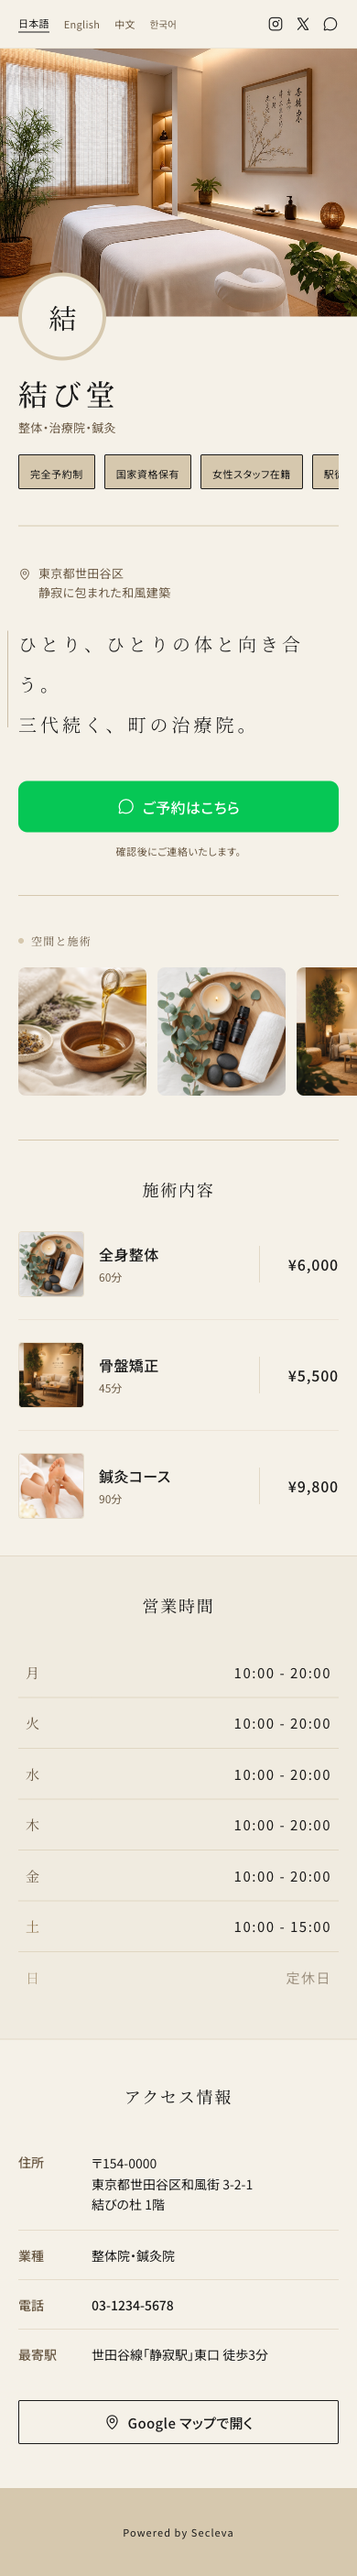
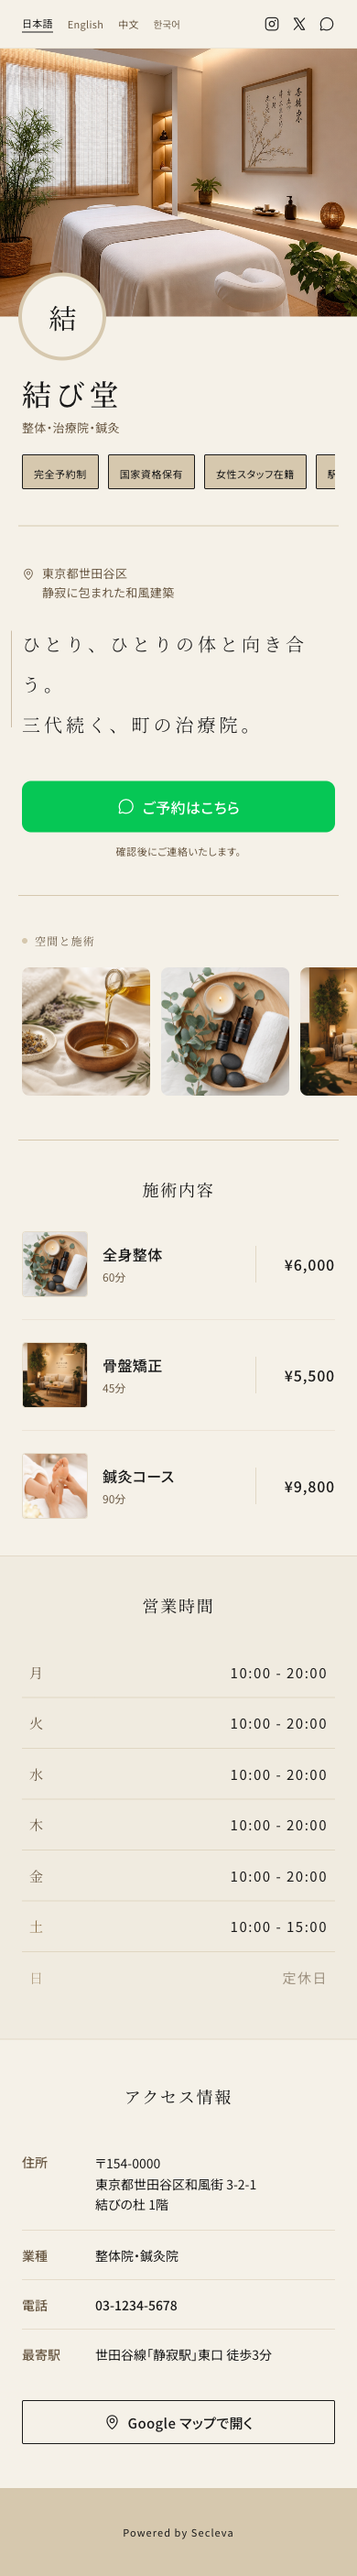
fix: T1ギャラリー左端bleed解消 / T1・T2・T3・T5に+4pxパディング横展開
- T1: ギャラリー&特徴タグの -mx-5 px-5 を px-6 化（左端=右端マージン）
- T1: 全主要セクション px-5 → px-6
- T2: 全主要セクション px-5 → px-6
- T3: 全主要セクション px-6 → px-7
- T5: 全主要セクション px-5 → px-6
- 全テンプレでT4と同じ詰まり感解消

diff --git a/shop-page/templates/T1_clean.html b/shop-page/templates/T1_clean.html
@@ -79,10 +79,10 @@
         </section>
 
         <!-- 3. Shop Info Header -->
-        <section class="px-5 pt-16 pb-6 bg-secbg relative z-0">
+        <section class="px-6 pt-16 pb-6 bg-secbg relative z-0">
             <h1 class="text-[28px] font-bold leading-tight tracking-tight text-sectext">上野リラクゼーション</h1>
             <p class="text-sm font-medium text-secmuted mt-1">マッサージ・リラクゼーション</p>
-            <div class="flex overflow-x-auto no-scrollbar gap-2 mt-4 -mx-5 px-5 pb-1">
+            <div class="flex overflow-x-auto no-scrollbar gap-2 mt-4 px-6 pb-1">
                 <span class="whitespace-nowrap px-3 py-1.5 bg-[#F9FAFB] text-sectext text-xs font-medium rounded-full border border-secborder">女性専用</span>
                 <span class="whitespace-nowrap px-3 py-1.5 bg-[#F9FAFB] text-sectext text-xs font-medium rounded-full border border-secborder">個室完備</span>
                 <span class="whitespace-nowrap px-3 py-1.5 bg-[#F9FAFB] text-sectext text-xs font-medium rounded-full border border-secborder">駅近</span>
@@ -92,7 +92,7 @@
         </section>
 
         <!-- 4. Location & Catchcopy -->
-        <section class="px-5 pb-8 bg-secbg">
+        <section class="px-6 pb-8 bg-secbg">
             <div class="flex items-center gap-1.5 text-secmuted text-sm">
                 <i class="ph ph-map-pin text-[18px]"></i>
                 <span>東京都台東区上野</span>
@@ -103,15 +103,15 @@
         </section>
 
         <!-- 5. Primary CTA -->
-        <section class="px-5 pb-10 bg-secbg">
+        <section class="px-6 pb-10 bg-secbg">
             <button class="w-full h-[56px] bg-secgreen text-white rounded-[14px] flex items-center justify-center font-bold text-[17px]">フォームで予約する</button>
             <p class="text-xs text-secmuted text-center mt-3 font-medium">店舗側で確認後にご連絡いたします。</p>
         </section>
 
         <!-- 6. Gallery -->
         <section class="py-6 border-t border-secborder bg-secbg">
-            <div class="px-5 mb-4 font-bold text-lg text-sectext">ギャラリー</div>
-            <div class="flex overflow-x-auto no-scrollbar gap-3 -mx-5 px-5 pb-2 snap-x snap-mandatory">
+            <div class="px-6 mb-4 font-bold text-lg text-sectext">ギャラリー</div>
+            <div class="flex overflow-x-auto no-scrollbar gap-3 px-6 pb-2 snap-x snap-mandatory">
                 <img src="../../branding/dummy/salon/03_tray.webp" alt="" class="w-[140px] h-[140px] shrink-0 rounded-xl object-cover border border-secborder snap-start">
                 <img src="../../branding/dummy/salon/04_lounge.webp" alt="" class="w-[140px] h-[140px] shrink-0 rounded-xl object-cover border border-secborder snap-start">
                 <img src="../../branding/dummy/salon/01_hero.webp" alt="" class="w-[140px] h-[140px] shrink-0 rounded-xl object-cover border border-secborder snap-start">
@@ -122,7 +122,7 @@
         </section>
 
         <!-- 7. Menu -->
-        <section class="px-5 py-8 border-t border-secborder bg-secbg">
+        <section class="px-6 py-8 border-t border-secborder bg-secbg">
             <h2 class="font-bold text-lg text-sectext mb-4">メニュー</h2>
             <div class="border border-secborder rounded-2xl bg-white overflow-hidden flex flex-col">
                 <div class="flex gap-3 p-4 border-b border-secborder">
@@ -159,7 +159,7 @@
         </section>
 
         <!-- 8. Business Hours -->
-        <section class="px-5 py-8 border-t border-secborder bg-secbg">
+        <section class="px-6 py-8 border-t border-secborder bg-secbg">
             <h2 class="font-bold text-lg text-sectext mb-4">営業時間</h2>
             <div class="border border-secborder rounded-2xl bg-white overflow-hidden text-sm">
                 <div class="flex justify-between items-center py-3.5 px-4 border-b border-secborder"><span class="font-medium text-sectext w-8">月</span><span class="text-sectext tracking-wide">10:00 - 21:00</span></div>
@@ -173,7 +173,7 @@
         </section>
 
         <!-- 9. Access & Shop Info -->
-        <section class="px-5 py-8 border-t border-secborder bg-secbg">
+        <section class="px-6 py-8 border-t border-secborder bg-secbg">
             <h2 class="font-bold text-lg text-sectext mb-4">アクセス・店舗情報</h2>
             <div class="space-y-4 text-[15px] text-sectext font-medium">
                 <div class="flex gap-4"><span class="text-secmuted w-12 shrink-0">住所</span><p class="leading-relaxed">〒110-0005<br>東京都台東区上野</p></div>

diff --git a/shop-page/templates/T5_night.html b/shop-page/templates/T5_night.html
@@ -43,7 +43,7 @@
         <div class="absolute top-0 left-1/2 -translate-x-1/2 w-[150%] h-[500px] bg-[radial-gradient(ellipse_at_top,rgba(232,180,160,0.15)_0%,transparent_60%)] pointer-events-none z-0"></div>
 
         <!-- 1. Top Utility Bar -->
-        <header class="relative z-20 w-full px-5 py-3 flex justify-between items-center bg-obsidian/80 backdrop-blur-md border-b divider sticky top-0">
+        <header class="relative z-20 w-full px-6 py-3 flex justify-between items-center bg-obsidian/80 backdrop-blur-md border-b divider sticky top-0">
             <div class="flex gap-2 text-[11px] font-medium tracking-widest text-pinkgold/60">
                 <button class="text-pinkgold underline underline-offset-4 decoration-[1px]">JP</button>
                 <span>/</span>
@@ -75,7 +75,7 @@
         <div class="h-14 w-full"></div>
 
         <!-- 3. Title & Chips -->
-        <section class="px-5 w-full z-10 relative">
+        <section class="px-6 w-full z-10 relative">
             <div class="flex flex-col gap-1">
                 <p class="text-pinkgold text-xs tracking-[0.2em] font-medium opacity-90 uppercase">Ginza Snack & Lounge</p>
                 <h1 class="text-3xl sm:text-[36px] font-black tracking-tight text-white neon-text mt-1">Lounge ROUGE</h1>
@@ -91,7 +91,7 @@
         </section>
 
         <!-- 4. Address & Catchcopy -->
-        <section class="px-5 mt-10 w-full">
+        <section class="px-6 mt-10 w-full">
             <p class="text-txtsecondary text-sm flex items-center gap-2 mb-4">
                 <i class="ph ph-map-pin text-pinkgold text-base"></i>
                 東京都中央区銀座8-x-x ローズビル3F
@@ -102,7 +102,7 @@
         </section>
 
         <!-- 5. CTAs -->
-        <section class="px-5 mt-10 w-full flex flex-col gap-3">
+        <section class="px-6 mt-10 w-full flex flex-col gap-3">
             <button class="w-full h-14 bg-pinkgold text-obsidian font-bold text-[15px] rounded-lg tracking-wider flex items-center justify-center gap-2 shadow-[0_4px_24px_rgba(232,180,160,0.35)]">
                 <i class="ph ph-chat-circle text-2xl"></i>
                 LINEで予約する
@@ -113,10 +113,10 @@
             </button>
         </section>
 
-        <div class="w-full px-5 mt-14 mb-10"><div class="w-full border-t divider"></div></div>
+        <div class="w-full px-6 mt-14 mb-10"><div class="w-full border-t divider"></div></div>
 
         <!-- 6. Gallery -->
-        <section class="px-5 w-full">
+        <section class="px-6 w-full">
             <h3 class="text-sm font-bold tracking-[0.15em] text-pinkgold mb-6 uppercase flex items-center gap-2">
                 <i class="ph ph-images"></i> Gallery
             </h3>
@@ -130,10 +130,10 @@
             </div>
         </section>
 
-        <div class="w-full px-5 mt-14 mb-10"><div class="w-full border-t divider"></div></div>
+        <div class="w-full px-6 mt-14 mb-10"><div class="w-full border-t divider"></div></div>
 
         <!-- 7. Menu -->
-        <section class="px-5 w-full">
+        <section class="px-6 w-full">
             <h3 class="text-sm font-bold tracking-[0.15em] text-pinkgold mb-6 uppercase flex items-center gap-2">
                 <i class="ph ph-wine"></i> System & Menu
             </h3>
@@ -169,10 +169,10 @@
             <p class="text-xs text-txtsecondary mt-4 pr-2 text-right">その他のメニュー・ボトルも多数ご用意しております。</p>
         </section>
 
-        <div class="w-full px-5 mt-14 mb-10"><div class="w-full border-t divider"></div></div>
+        <div class="w-full px-6 mt-14 mb-10"><div class="w-full border-t divider"></div></div>
 
         <!-- 8. Business Hours -->
-        <section class="px-5 w-full">
+        <section class="px-6 w-full">
             <h3 class="text-sm font-bold tracking-[0.15em] text-pinkgold mb-6 uppercase flex items-center gap-2">
                 <i class="ph ph-clock"></i> Hours
             </h3>
@@ -192,10 +192,10 @@
             </div>
         </section>
 
-        <div class="w-full px-5 mt-14 mb-10"><div class="w-full border-t divider"></div></div>
+        <div class="w-full px-6 mt-14 mb-10"><div class="w-full border-t divider"></div></div>
 
         <!-- 9. Access Block -->
-        <section class="px-5 w-full">
+        <section class="px-6 w-full">
             <h3 class="text-sm font-bold tracking-[0.15em] text-pinkgold mb-6 uppercase flex items-center gap-2">
                 <i class="ph ph-map-trifold"></i> Access
             </h3>

diff --git a/shop-page/templates/T2_wamodern.html b/shop-page/templates/T2_wamodern.html
@@ -42,7 +42,7 @@
     <div class="app-container shadow-[0_0_40px_-15px_rgba(0,0,0,0.05)] md:border-x md:border-paper/40">
 
         <!-- 1. Top Utility Bar -->
-        <nav class="flex items-center justify-between px-5 py-3 border-b border-paper/30">
+        <nav class="flex items-center justify-between px-6 py-3 border-b border-paper/30">
             <div class="flex items-center gap-4 text-[11px] font-sans text-textsec tracking-wide">
                 <span class="text-sumi border-b border-sumi pb-[1px]">日本語</span>
                 <span>English</span>
@@ -65,7 +65,7 @@
         </header>
 
         <!-- 3. Header Info -->
-        <section class="px-5 pt-16 pb-8">
+        <section class="px-6 pt-16 pb-8">
             <h1 class="font-serif text-[32px] font-medium text-sumi tracking-jp-wide leading-[1.2]">結び堂</h1>
             <p class="text-[13px] text-textsec mt-2 tracking-wide font-sans">整体・治療院・鍼灸</p>
             <div class="flex overflow-x-auto gap-2.5 mt-5 pb-2">
@@ -80,7 +80,7 @@
         <div class="w-[calc(100%-2.5rem)] h-px bg-paper mx-auto"></div>
 
         <!-- 4. Intro / Catchcopy -->
-        <section class="px-5 py-10">
+        <section class="px-6 py-10">
             <div class="flex items-start gap-2 mb-6 text-textsec">
                 <i class="ph ph-map-pin text-sm mt-[2px]"></i>
                 <p class="text-[13px] tracking-wide leading-relaxed font-sans">東京都世田谷区<br>静寂に包まれた和風建築</p>
@@ -93,7 +93,7 @@
         </section>
 
         <!-- 5. Primary CTA -->
-        <section class="px-5 pb-10">
+        <section class="px-6 pb-10">
             <button class="btn-press w-full h-[56px] bg-line text-white rounded-[10px] flex items-center justify-center gap-2">
                 <i class="ph ph-chat-circle text-xl"></i>
                 <span class="font-sans font-medium text-[16px] tracking-wide mt-[1px]">ご予約はこちら</span>
@@ -105,10 +105,10 @@
 
         <!-- 6. Gallery -->
         <section class="py-10">
-            <h3 class="px-5 font-serif text-[12px] tracking-widest text-textsec mb-5 uppercase flex items-center gap-2">
+            <h3 class="px-6 font-serif text-[12px] tracking-widest text-textsec mb-5 uppercase flex items-center gap-2">
                 <span class="w-1.5 h-1.5 bg-paper rounded-full"></span> 空間と施術
             </h3>
-            <div class="flex overflow-x-auto gap-3 px-5 pb-2">
+            <div class="flex overflow-x-auto gap-3 px-6 pb-2">
                 <img src="../../branding/dummy/salon/02_oilbowl.webp" alt="" class="w-[140px] h-[140px] rounded-[8px] object-cover flex-shrink-0">
                 <img src="../../branding/dummy/salon/03_tray.webp" alt="" class="w-[140px] h-[140px] rounded-[8px] object-cover flex-shrink-0">
                 <img src="../../branding/dummy/salon/04_lounge.webp" alt="" class="w-[140px] h-[140px] rounded-[8px] object-cover flex-shrink-0">
@@ -121,7 +121,7 @@
         <div class="w-[calc(100%-2.5rem)] h-[1px] bg-paper mx-auto"></div>
 
         <!-- 7. Menu -->
-        <section class="py-10 px-5">
+        <section class="py-10 px-6">
             <h3 class="font-serif text-[18px] text-sumi mb-8 tracking-widest text-center">施術内容</h3>
             <div class="flex flex-col gap-6">
                 <div class="flex items-center gap-4 relative">
@@ -155,7 +155,7 @@
         </section>
 
         <!-- 8. Business Hours -->
-        <section class="py-10 px-5 bg-[#F0EBE0] border-y border-paper/50">
+        <section class="py-10 px-6 bg-[#F0EBE0] border-y border-paper/50">
             <h3 class="font-serif text-[18px] text-sumi mb-8 tracking-widest text-center">営業時間</h3>
             <table class="w-full text-[15px]">
                 <tbody>
@@ -171,7 +171,7 @@
         </section>
 
         <!-- 9. Access Block -->
-        <section class="py-12 px-5">
+        <section class="py-12 px-6">
             <h3 class="font-serif text-[18px] text-sumi mb-8 tracking-widest text-center">アクセス情報</h3>
             <dl class="flex flex-col text-[14px]">
                 <div class="flex py-4 border-b border-paper/50"><dt class="w-[80px] font-sans text-textsec font-medium">住所</dt><dd class="flex-1 font-sans text-sumi leading-relaxed">〒154-0000<br>東京都世田谷区和風街 3-2-1<br>結びの杜 1階</dd></div>

diff --git a/shop-page/templates/T3_natural.html b/shop-page/templates/T3_natural.html
@@ -67,7 +67,7 @@
         </section>
 
         <!-- 3. Shop Name & Chips -->
-        <section class="pt-10 px-6 pb-8 relative z-10">
+        <section class="pt-10 px-7 pb-8 relative z-10">
             <p class="text-sm text-custom-textmuted mb-1 tracking-wider">アロマ・ハーブ・オーガニックサロン</p>
             <h1 class="text-[28px] md:text-[32px] font-bold tracking-tight text-custom-text leading-tight w-full">アロマスタジオ HANARE</h1>
             <p class="font-lora font-medium text-custom-textmuted text-base uppercase tracking-widest mt-0.5">Aroma Studio Hanare</p>
@@ -80,10 +80,10 @@
             </div>
         </section>
 
-        <div class="px-6"><div class="w-full h-[1px] bg-custom-divider"></div></div>
+        <div class="px-7"><div class="w-full h-[1px] bg-custom-divider"></div></div>
 
         <!-- 4. Address & Catchcopy -->
-        <section class="py-8 px-6 space-y-6">
+        <section class="py-8 px-7 space-y-6">
             <div class="w-full flex justify-center text-custom-sub">
                 <svg width="24" height="24" viewBox="0 0 24 24" fill="none" stroke="currentColor" stroke-width="1.5" class="opacity-60">
                     <path d="M12 22C12 22 12 12 12 8C12 4 16 3 16 3C16 3 20 5 20 8C20 12 12 14 12 14Z" stroke-linejoin="round"/>
@@ -100,7 +100,7 @@
         </section>
 
         <!-- 5. Primary CTAs -->
-        <section class="px-6 pb-12 flex flex-col gap-3">
+        <section class="px-7 pb-12 flex flex-col gap-3">
             <button class="w-full h-14 bg-custom-line text-white rounded-full flex items-center justify-center gap-2 text-lg font-bold shadow-[0_4px_14px_rgba(6,199,85,0.25)]">
                 <i class="ph ph-chat-circle-text text-2xl"></i>
                 LINEで予約する
@@ -113,11 +113,11 @@
 
         <!-- 6. Gallery -->
         <section class="py-8 bg-white/40 border-y border-custom-divider relative">
-            <div class="px-6 mb-4 flex items-end gap-2">
+            <div class="px-7 mb-4 flex items-end gap-2">
                 <h3 class="font-lora text-2xl text-custom-text font-semibold tracking-tight">Gallery</h3>
                 <span class="text-sm text-custom-textmuted mb-1">店内ギャラリー</span>
             </div>
-            <div class="flex gap-4 px-6 overflow-x-auto hide-scrollbar w-full">
+            <div class="flex gap-4 px-7 overflow-x-auto hide-scrollbar w-full">
                 <img src="../../branding/dummy/salon/03_tray.webp" alt="" class="w-[140px] h-[140px] rounded-[16px] object-cover flex-shrink-0 warm-photo border border-custom-divider/50">
                 <img src="../../branding/dummy/salon/04_lounge.webp" alt="" class="w-[140px] h-[140px] rounded-[16px] object-cover flex-shrink-0 warm-photo border border-custom-divider/50">
                 <img src="../../branding/dummy/salon/05_foot.webp" alt="" class="w-[140px] h-[140px] rounded-[16px] object-cover flex-shrink-0 warm-photo border border-custom-divider/50">
@@ -129,7 +129,7 @@
         </section>
 
         <!-- 7. Menu -->
-        <section class="py-12 px-6">
+        <section class="py-12 px-7">
             <div class="mb-6 flex items-end gap-2">
                 <h3 class="font-lora text-2xl text-custom-text font-semibold tracking-tight">Menu</h3>
                 <span class="text-sm text-custom-textmuted mb-1">施術メニュー</span>
@@ -173,7 +173,7 @@
 
         <!-- 8 & 9. Hours and Access -->
         <section class="mt-4 border-t border-custom-divider/70 bg-gradient-to-b from-transparent to-custom-sub/10">
-            <div class="px-6 py-10">
+            <div class="px-7 py-10">
                 <div class="flex items-center gap-2 mb-6">
                     <i class="ph ph-clock text-xl text-custom-textmuted"></i>
                     <h3 class="text-lg font-bold text-custom-text tracking-wide">営業時間</h3>
@@ -193,7 +193,7 @@
                     </div>
                 </div>
             </div>
-            <div class="px-6 pb-12">
+            <div class="px-7 pb-12">
                 <div class="flex items-center gap-2 mb-6">
                     <i class="ph ph-map-pin text-xl text-custom-textmuted"></i>
                     <h3 class="text-lg font-bold text-custom-text tracking-wide">アクセス</h3>
